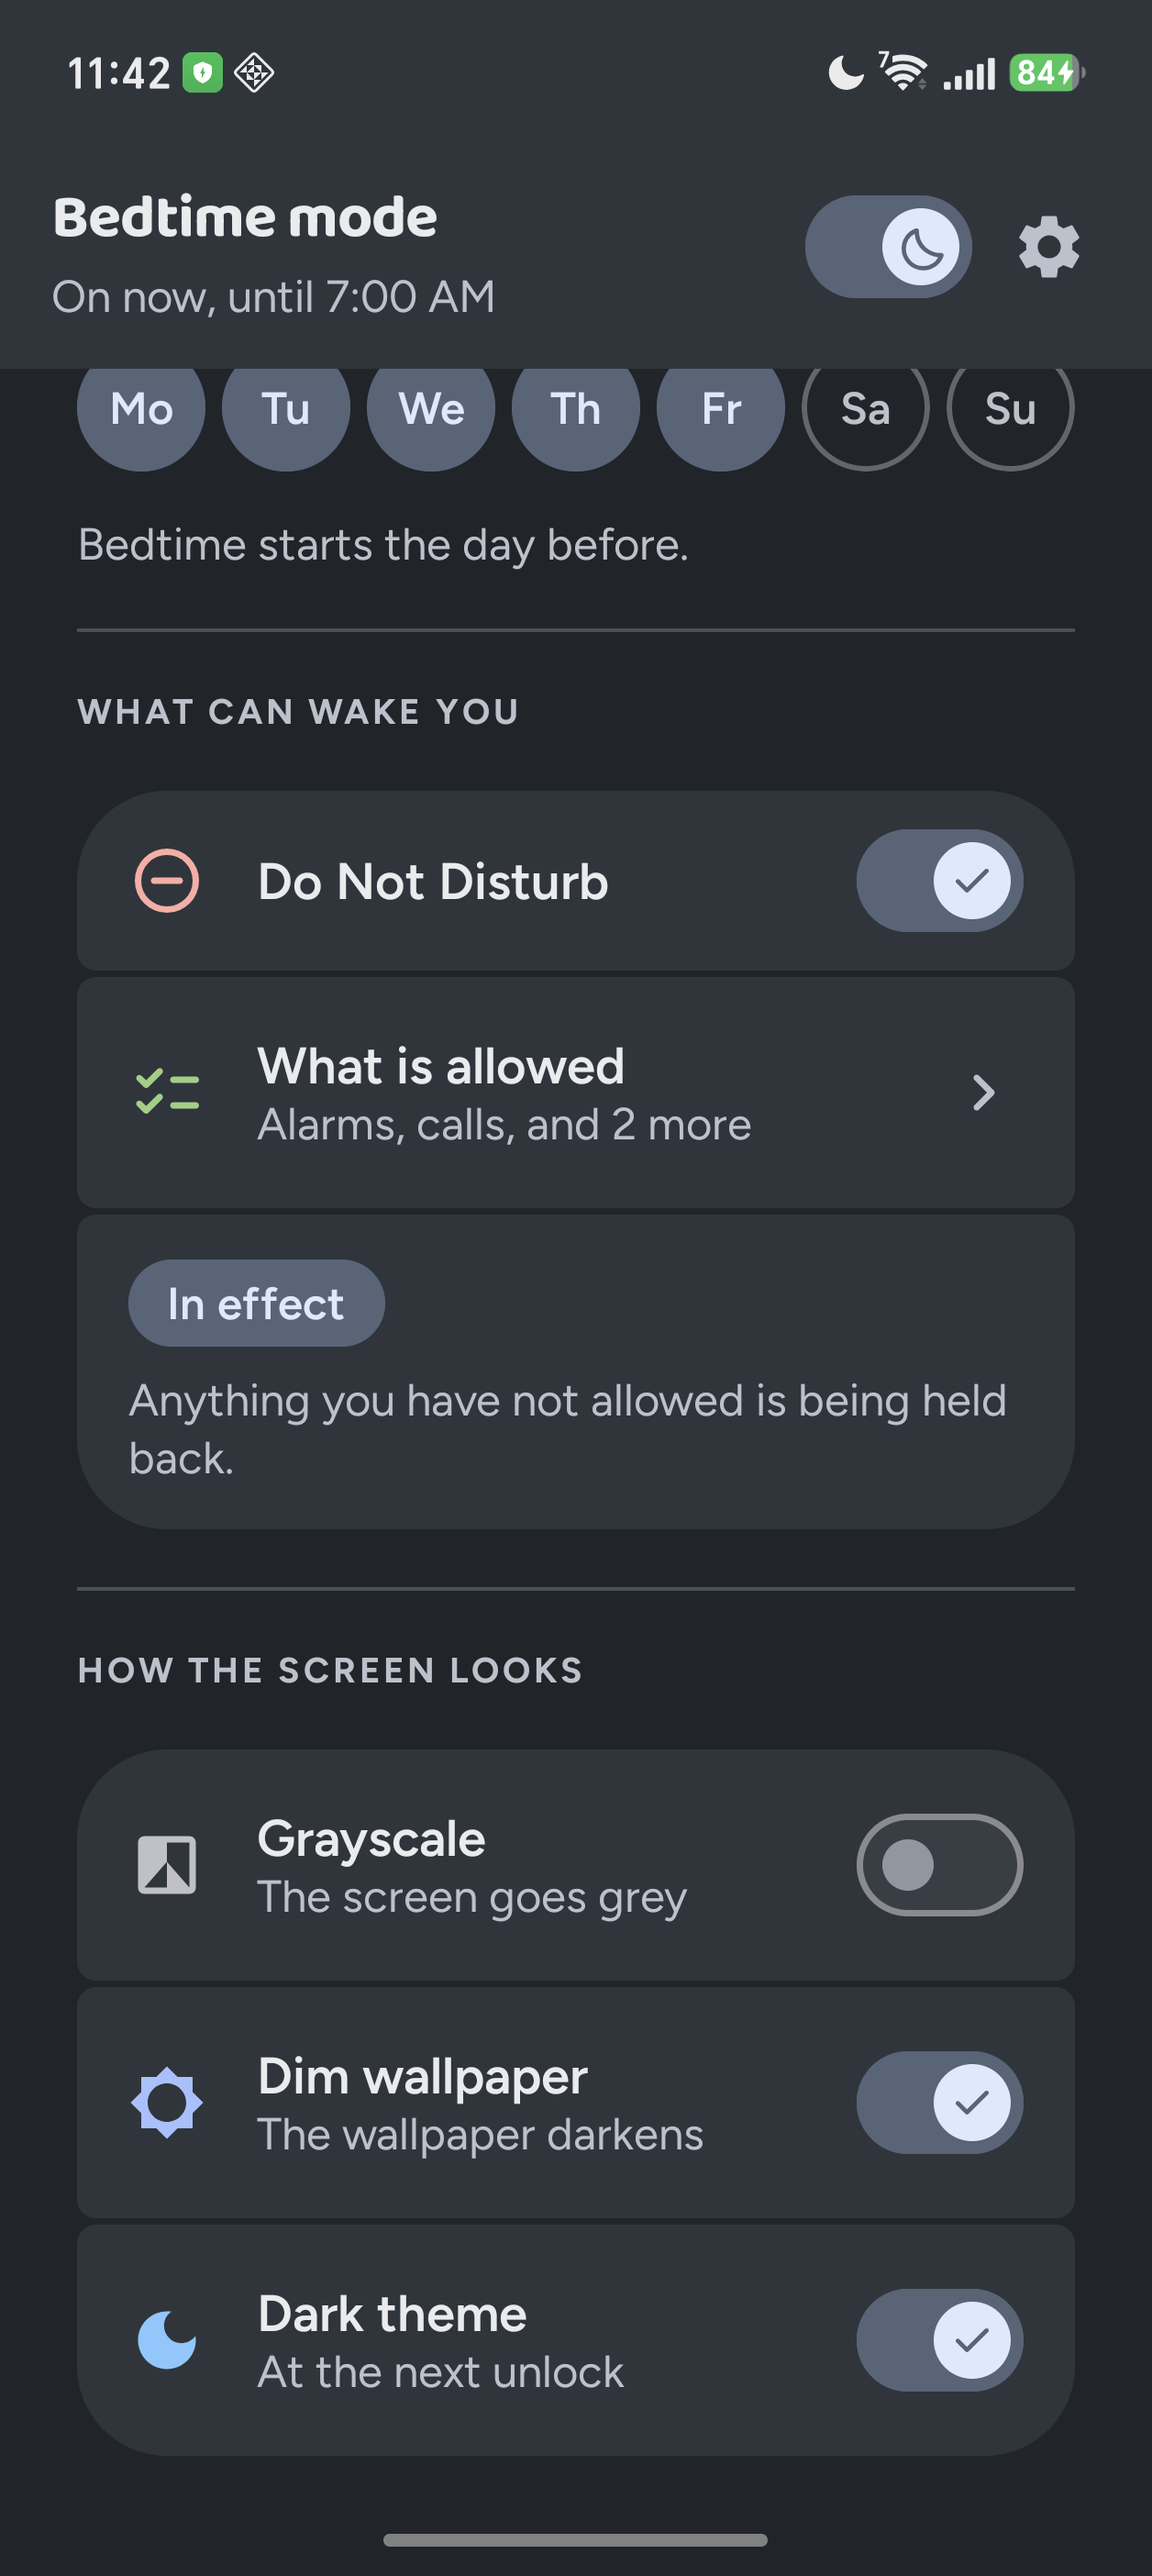
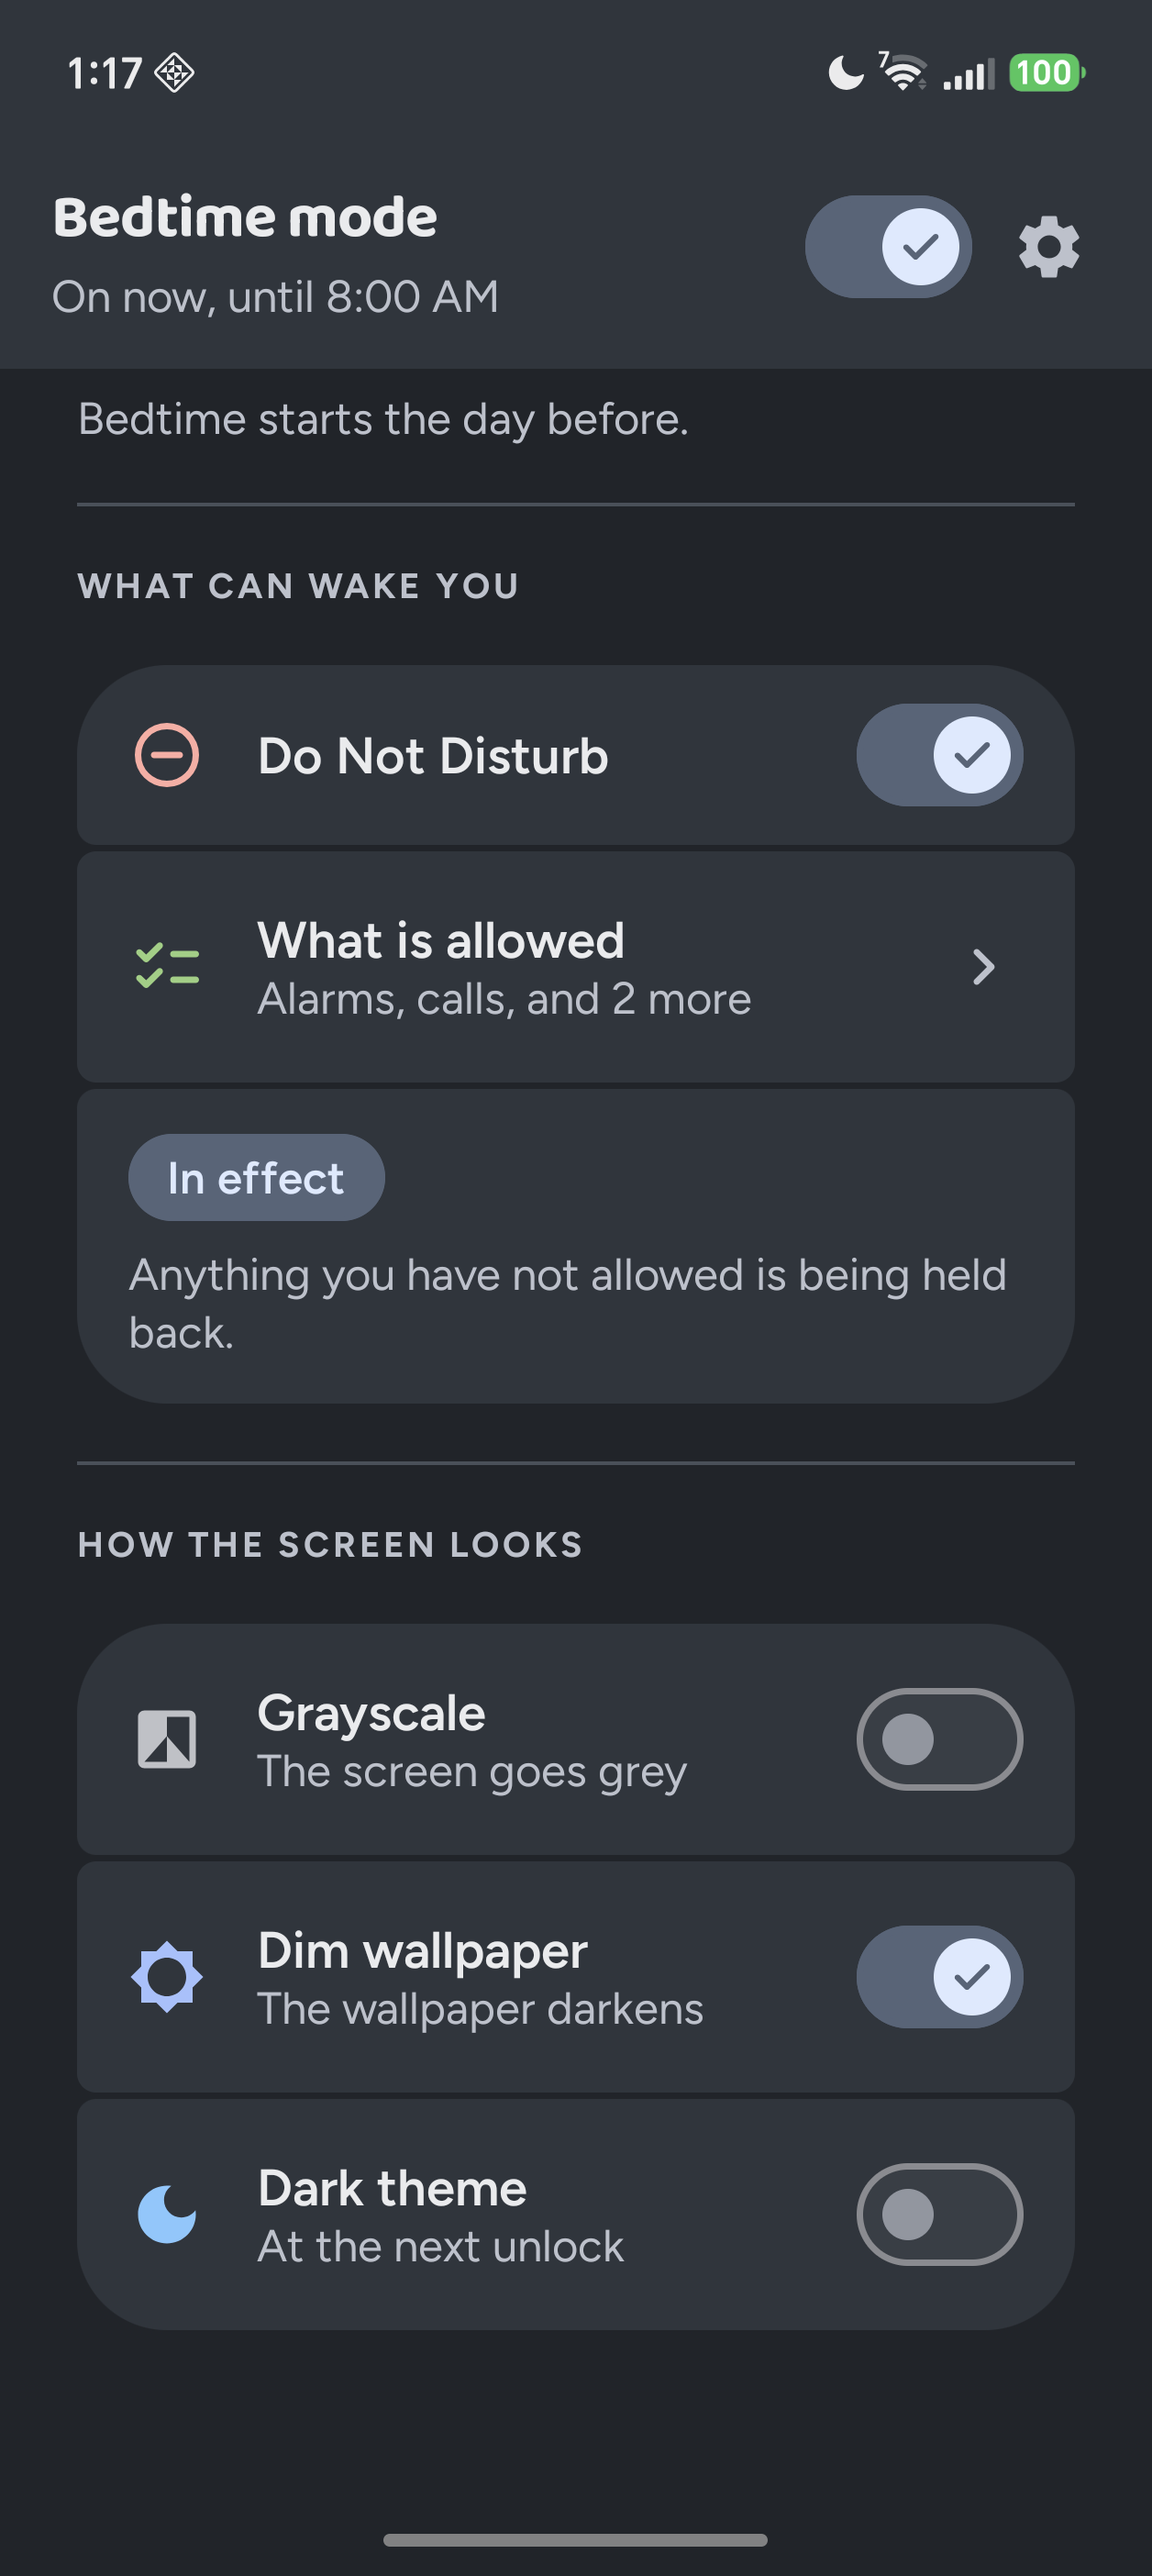
Refresh the README and every screenshot
All five shots predated tonight and showed a moon on the switch, an
"appearance" heading and a Settings screen with two sections. Retaken on the
same phone at the same resolution, keeping the existing convention - home,
allowed and settings light; home-dark and effects dark - so only the content
changed. The Settings shot now reaches Problem report and Start over, which
is most of what is new.

The text caught up too: the tile wears an hourglass then a tick rather than
a tick then a moon; the journal bullet gains Send diagnostics, and says what
that report deliberately cannot tell you; Reset gets a bullet naming the
trap it exists to replace; the Honor section explains that going to look at
those two switches is not treated as having set them, because they cannot be
read back. Test counts 140 -> 163 in both places they appear.

diff --git a/README.md b/README.md
@@ -13,7 +13,7 @@ it — driven by exact alarms, so it fires with the app closed.
 [![Android](https://img.shields.io/badge/Android-15%2B%20(API%2035)-3DDC84)](#requirements)
 [![Kotlin](https://img.shields.io/badge/Kotlin-2.3.21-7F52FF)](https://kotlinlang.org)
 [![Compose](https://img.shields.io/badge/Jetpack%20Compose-Material%203-4285F4)](https://developer.android.com/jetpack/compose)
-[![Tests](https://img.shields.io/badge/tests-140-success)](#tests)
+[![Tests](https://img.shields.io/badge/tests-163-success)](#tests)
 
 <img src="docs/screenshots/home.png" width="19%" alt="Home, mid-window">
 <img src="docs/screenshots/home-dark.png" width="19%" alt="Home, dark, mid-window">
@@ -73,10 +73,12 @@ doing it, or on any vendor doing it at all.
   for one value is how a screen ends up showing a wake time of 8:30 and a
   countdown to 7:30 at the same moment. Where no alarm is set at all the section
   is not drawn, because there is nothing for the night to end at.
-- **A Quick Settings tile**, with the same three states as the switch in the app:
-  off, a tick while armed, the moon while a window is actually running. Armed is
-  not running, and a tile that collapsed the two would be lying for most of the
-  evening. Long-press opens the app.
+- **A Quick Settings tile**, wearing the same faces as the switch in the app: an
+  hourglass while a window is only scheduled, a tick once it is actually in
+  effect, and the app's own mark when bedtime is off. Armed is not running, and a
+  tile that collapsed the two would be lying for most of the evening — a tick
+  sitting there all evening while nothing is happening is the one thing a tick
+  must not mean. Long-press opens the app.
 - **Do Not Disturb**, with a per-night allowlist — who can call, who can
   message, conversations, repeat callers, reminders, calendar events, media. The
   screen reports what the system says is actually in effect, rather than what the
@@ -110,9 +112,20 @@ doing it, or on any vendor doing it at all.
   deliberately does not.
 - **English, Russian and Ukrainian**, with a per-app language picker, and clock
   times in whichever 12- or 24-hour format the phone is set to.
-- **A journal.** The app keeps its own on-device log of every decision it makes
-  overnight. Useful anywhere, and necessary on devices that encrypt logcat for
-  third-party apps.
+- **A journal, and a way to send it.** The app keeps its own on-device log of
+  every decision it makes overnight — useful anywhere, and necessary on devices
+  that encrypt logcat for third-party apps. **Send diagnostics** turns that, the
+  schedule and the capability answers into plain text, alongside what the
+  *system* reports about the zen rule. The two are kept deliberately apart and in
+  that order, because every bug worth the feature lives in the gap between what
+  the phone says and what the app intended. It cannot tell you whether a
+  notification made a sound; nothing an ordinary app can reach can.
+- **Reset, in the one order that is safe.** Android's own *Clear storage* is a
+  trap here: the prefs are the app's only handle on its zen rule, so wiping them
+  leaves the rule live, applying its effects, and unreachable — measured. **Reset
+  Gloaming** switches bedtime off, puts the vendor's always-on keys back, removes
+  the rule and only then clears the store. The journal survives, because someone
+  resetting is usually resetting because something went wrong.
 
 ## Devices
 
@@ -190,6 +203,13 @@ Gloaming notices this by itself and offers a button straight to the right
 screen. The notice clears once a boot arrives normally, and it never asks which
 phone you have, so it works on any vendor doing this.
 
+The app also offers the setup once, when bedtime is first switched on — and
+because those two switches cannot be read back, going to look at them is not
+treated as having set them. Come back and the card asks rather than assumes:
+*did you turn them on?* One tap answers it for good. Refusing it outright is
+final too, and survives a reset, since a reset restores what the app owns and
+those switches are not among them.
+
 ### Optional: always-on display on Honor and Huawei
 
 Some phones ship their own always-on display and ignore the platform's request
@@ -259,6 +279,11 @@ itself rather than assuming:
 
 None of these ask which phone you have.
 
+When it does go wrong on a phone nobody here owns, **Settings ▸ Send
+diagnostics** is the answer: one tap produces a plain-text report — the rule as
+the system reports it, the schedule as the app intended it, every capability
+answer, and the journal — which you can read before it goes anywhere.
+
 ## Build
 
     ./tools/build.sh      debug APK, full log at /tmp/build.log
@@ -275,7 +300,7 @@ None of these ask which phone you have.
 
 ## Tests
 
-    ./gradlew test        140 tests, JVM only, seconds
+    ./gradlew test        163 tests, JVM only, seconds
     ./gradlew coverage    JaCoCo HTML at app/build/reports/jacoco/coverage
 
 They cover the scheduling core (pure functions of times, days and an injected
@@ -285,7 +310,10 @@ most, an alarm that arrives only because the app was opened — and the one-shot
 preferences migrations, the only code here that could corrupt data without saying
 anything. The alarm that ends a window early is driven through a real
 `setAlarmClock`, so the tests exercise the same `getNextAlarmClock` the app reads
-rather than a stub of it. Some of them measure real text
+rather than a stub of it. Newer ones cover the diagnostics report, the reset
+teardown — no rule survives it, not even one whose id was already lost — and the
+dial's own gesture, where a vertical swipe across the ring must scroll the page
+rather than move the schedule. Some of them measure real text
 layout at each locale's own widths, because a row that fits in English and wraps
 in Ukrainian is a bug you cannot see from the source — at the width the row
 actually has on the screen, which is not the width of the screen.
